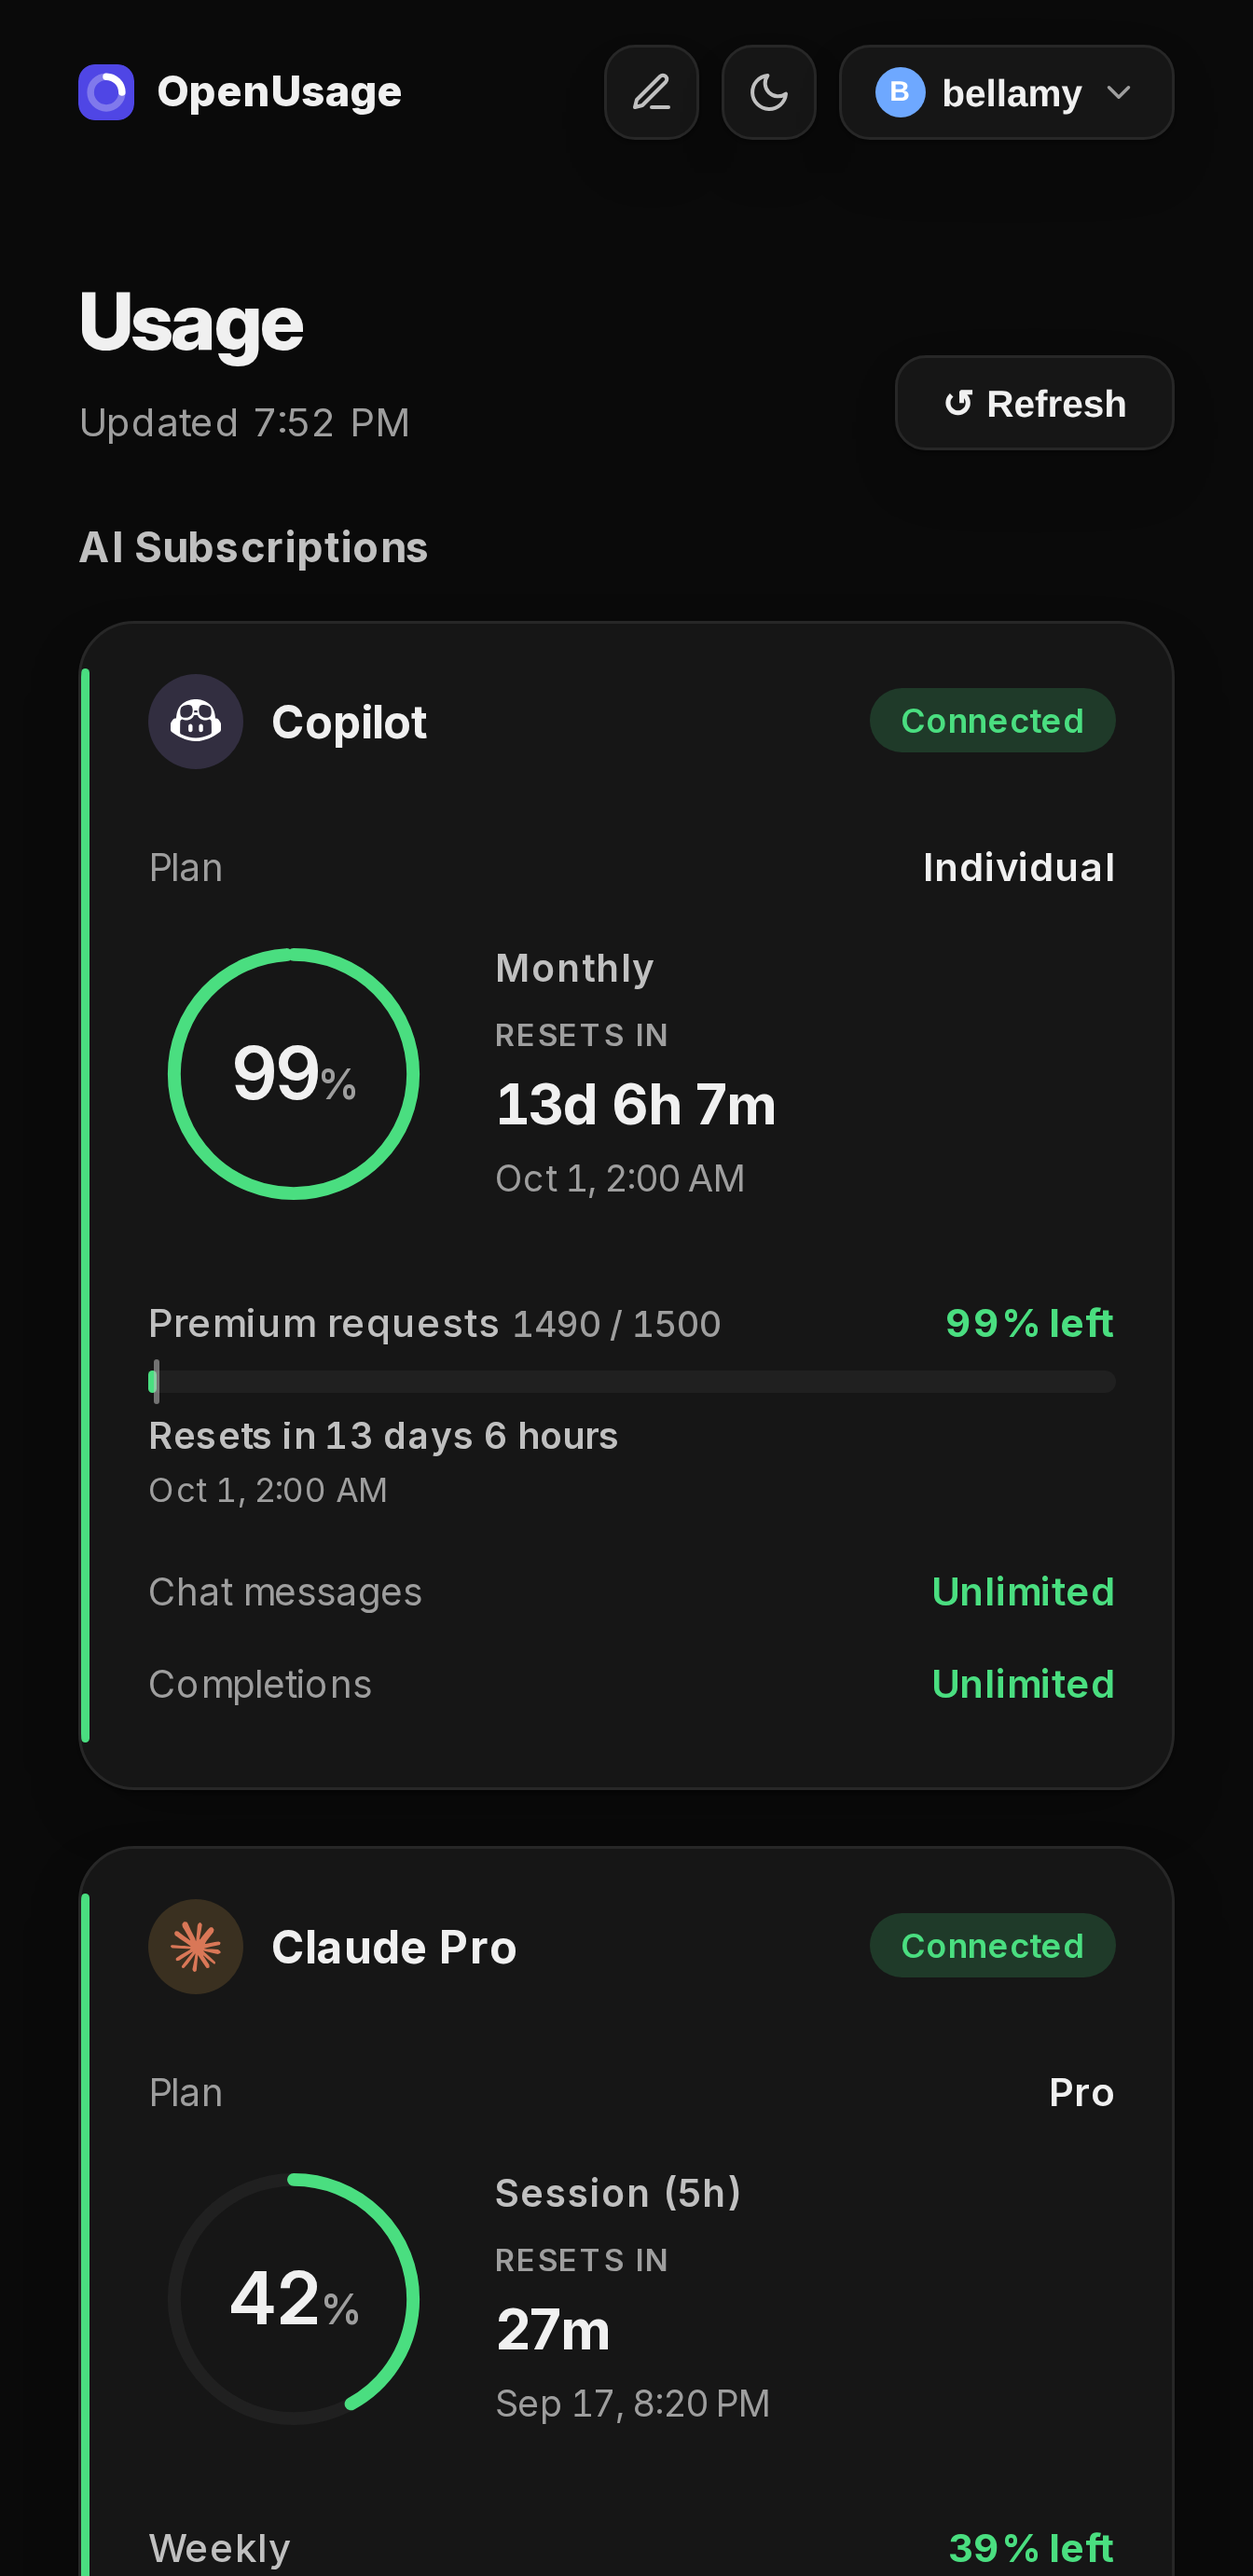
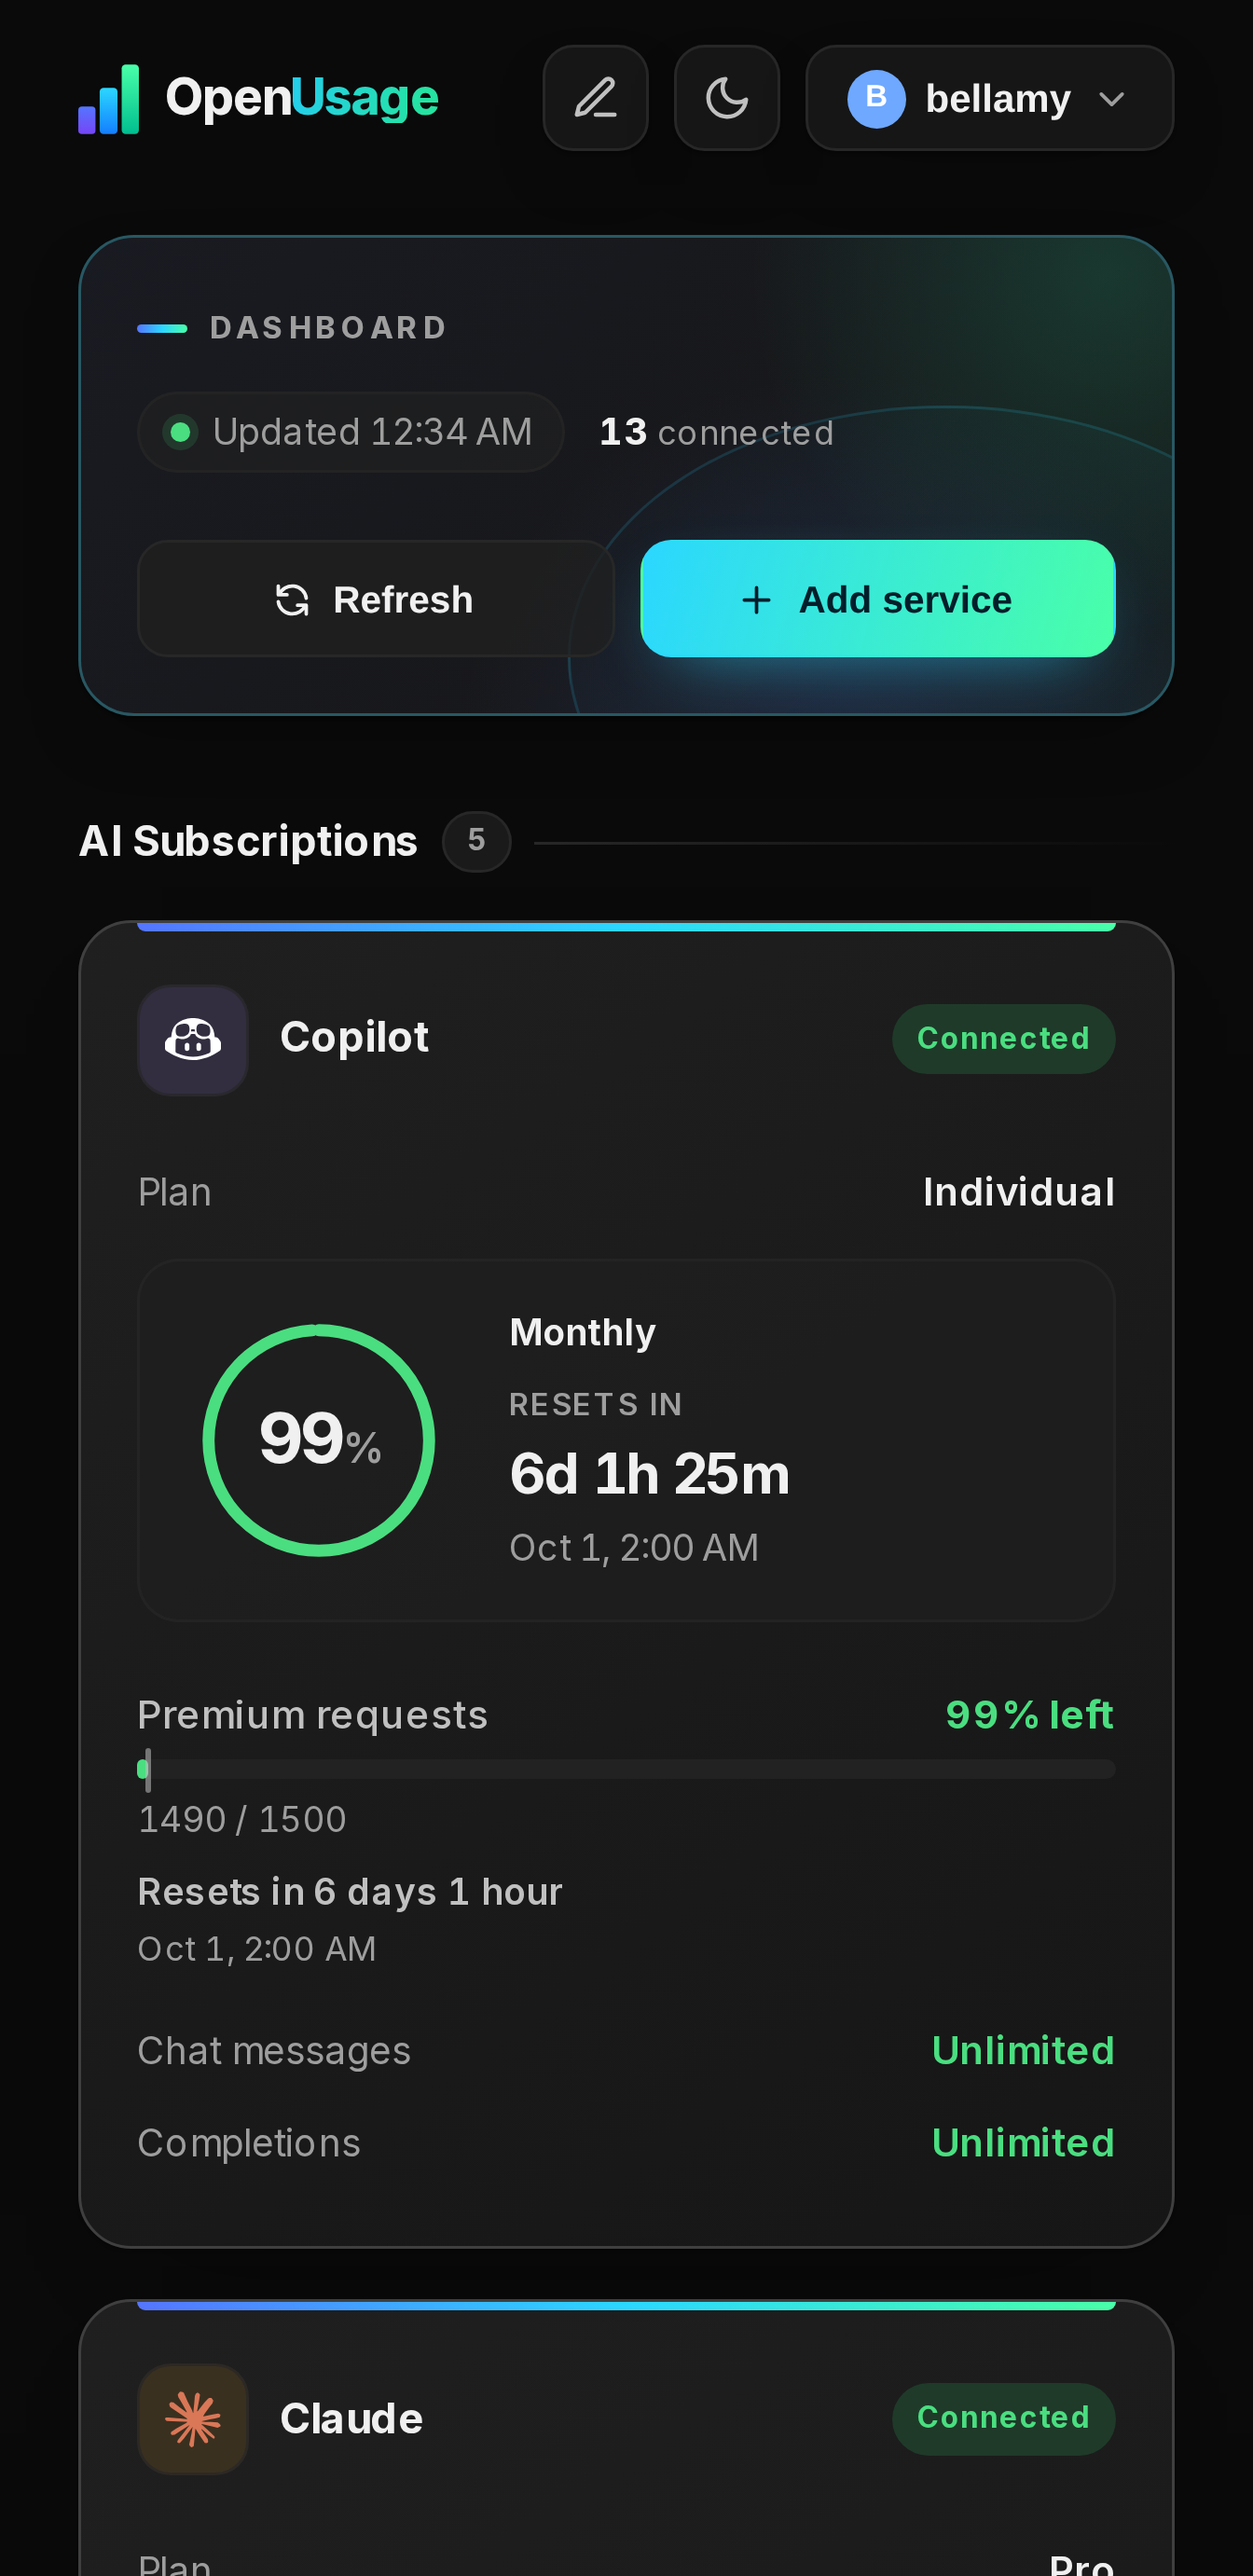
redesign

diff --git a/index.html b/index.html
@@ -73,6 +73,12 @@
       font-size: 1.1rem;
     }
     .nav-logo img { width: 28px; height: 28px; }
+    .logo-gradient {
+      background: linear-gradient(90deg, #2bd7ff, #49ffa8);
+      -webkit-background-clip: text;
+      -webkit-text-fill-color: transparent;
+      background-clip: text;
+    }
 
     .nav-links { display: flex; align-items: center; gap: 1rem; }
 
@@ -483,7 +489,7 @@
   <nav>
     <a href="#" class="nav-logo">
       <img src="images/favicon.svg" alt="OpenUsage" />
-      OpenUsage
+      <span>Open<span class="logo-gradient">Usage</span></span>
     </a>
     <div class="nav-links">
       <a href="#features" class="btn btn-ghost">Features</a>
@@ -653,7 +659,7 @@
   <footer>
     <div class="footer-logo">
       <img src="images/favicon.svg" alt="OpenUsage" />
-      OpenUsage
+      <span>Open<span class="logo-gradient">Usage</span></span>
     </div>
     <div class="footer-links">
       <a href="https://github.com/ellite/openusage" target="_blank" rel="noopener noreferrer">GitHub</a>
